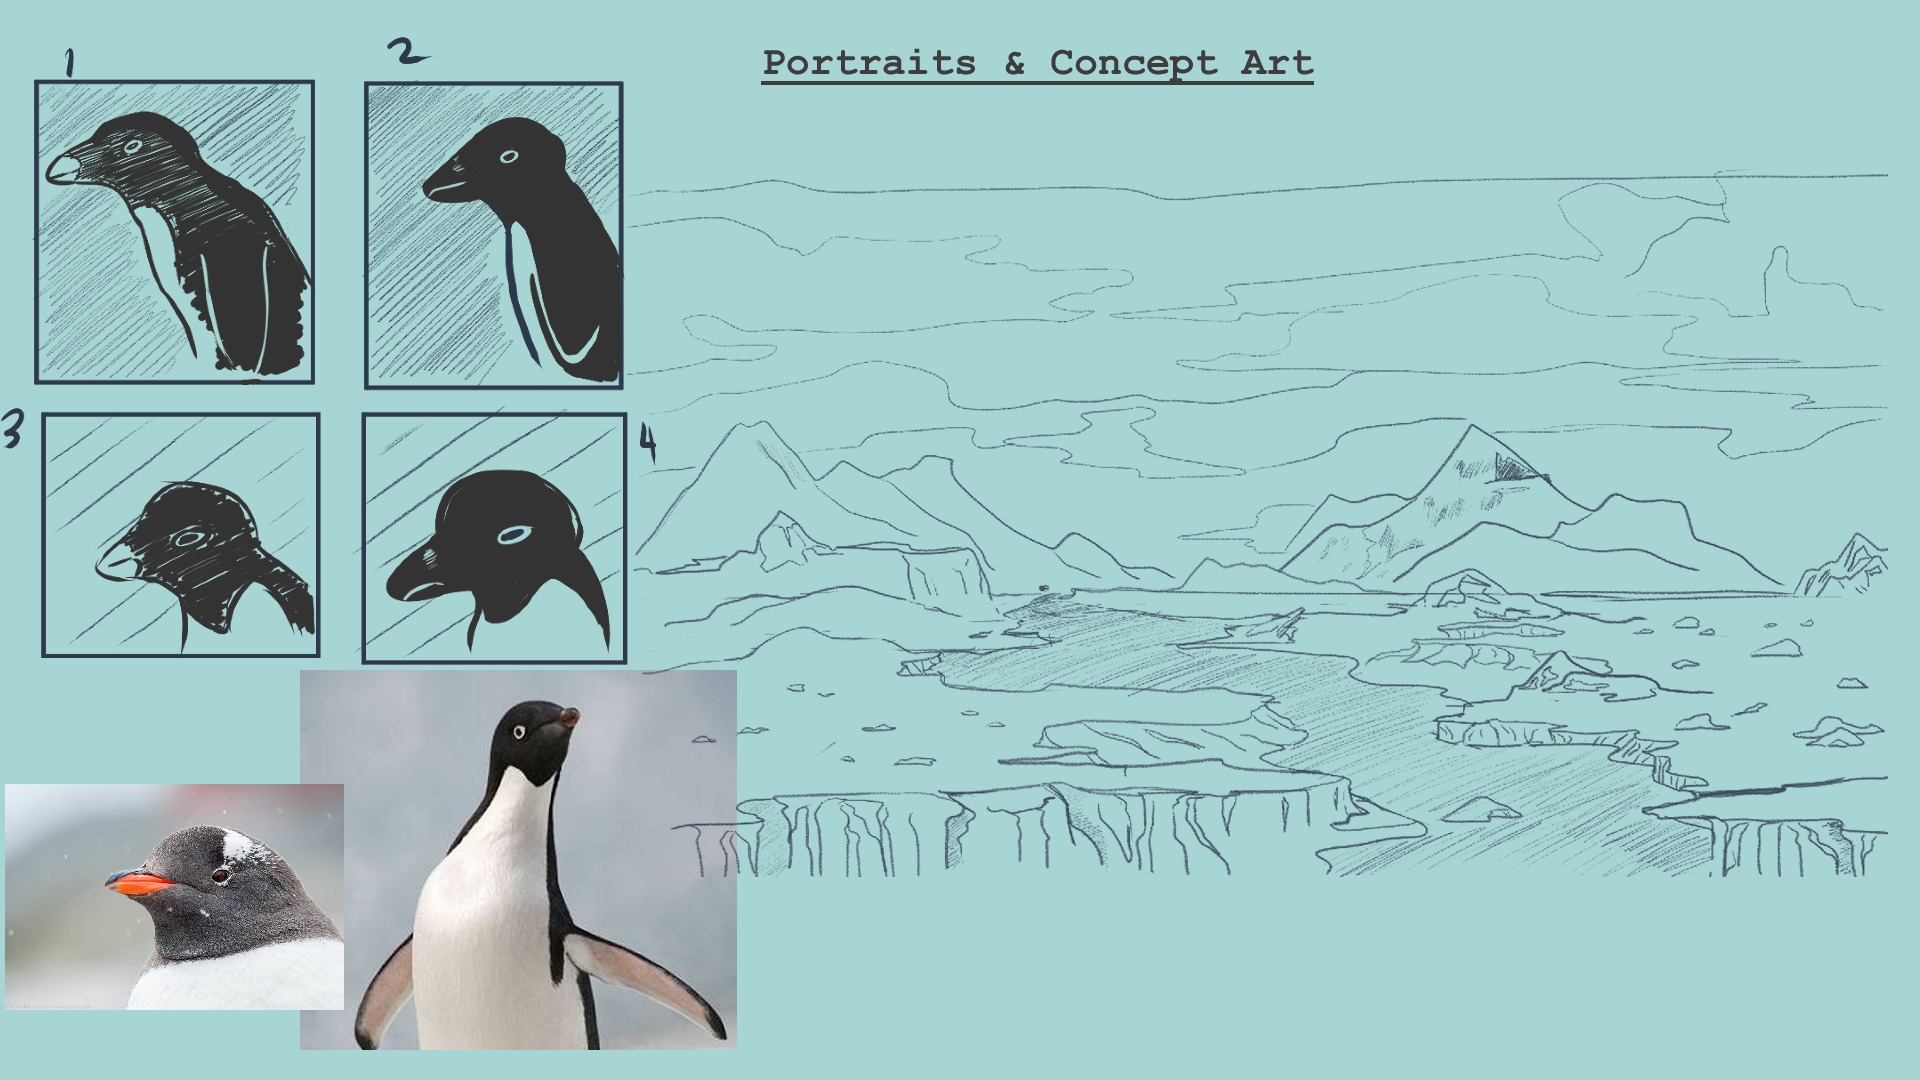
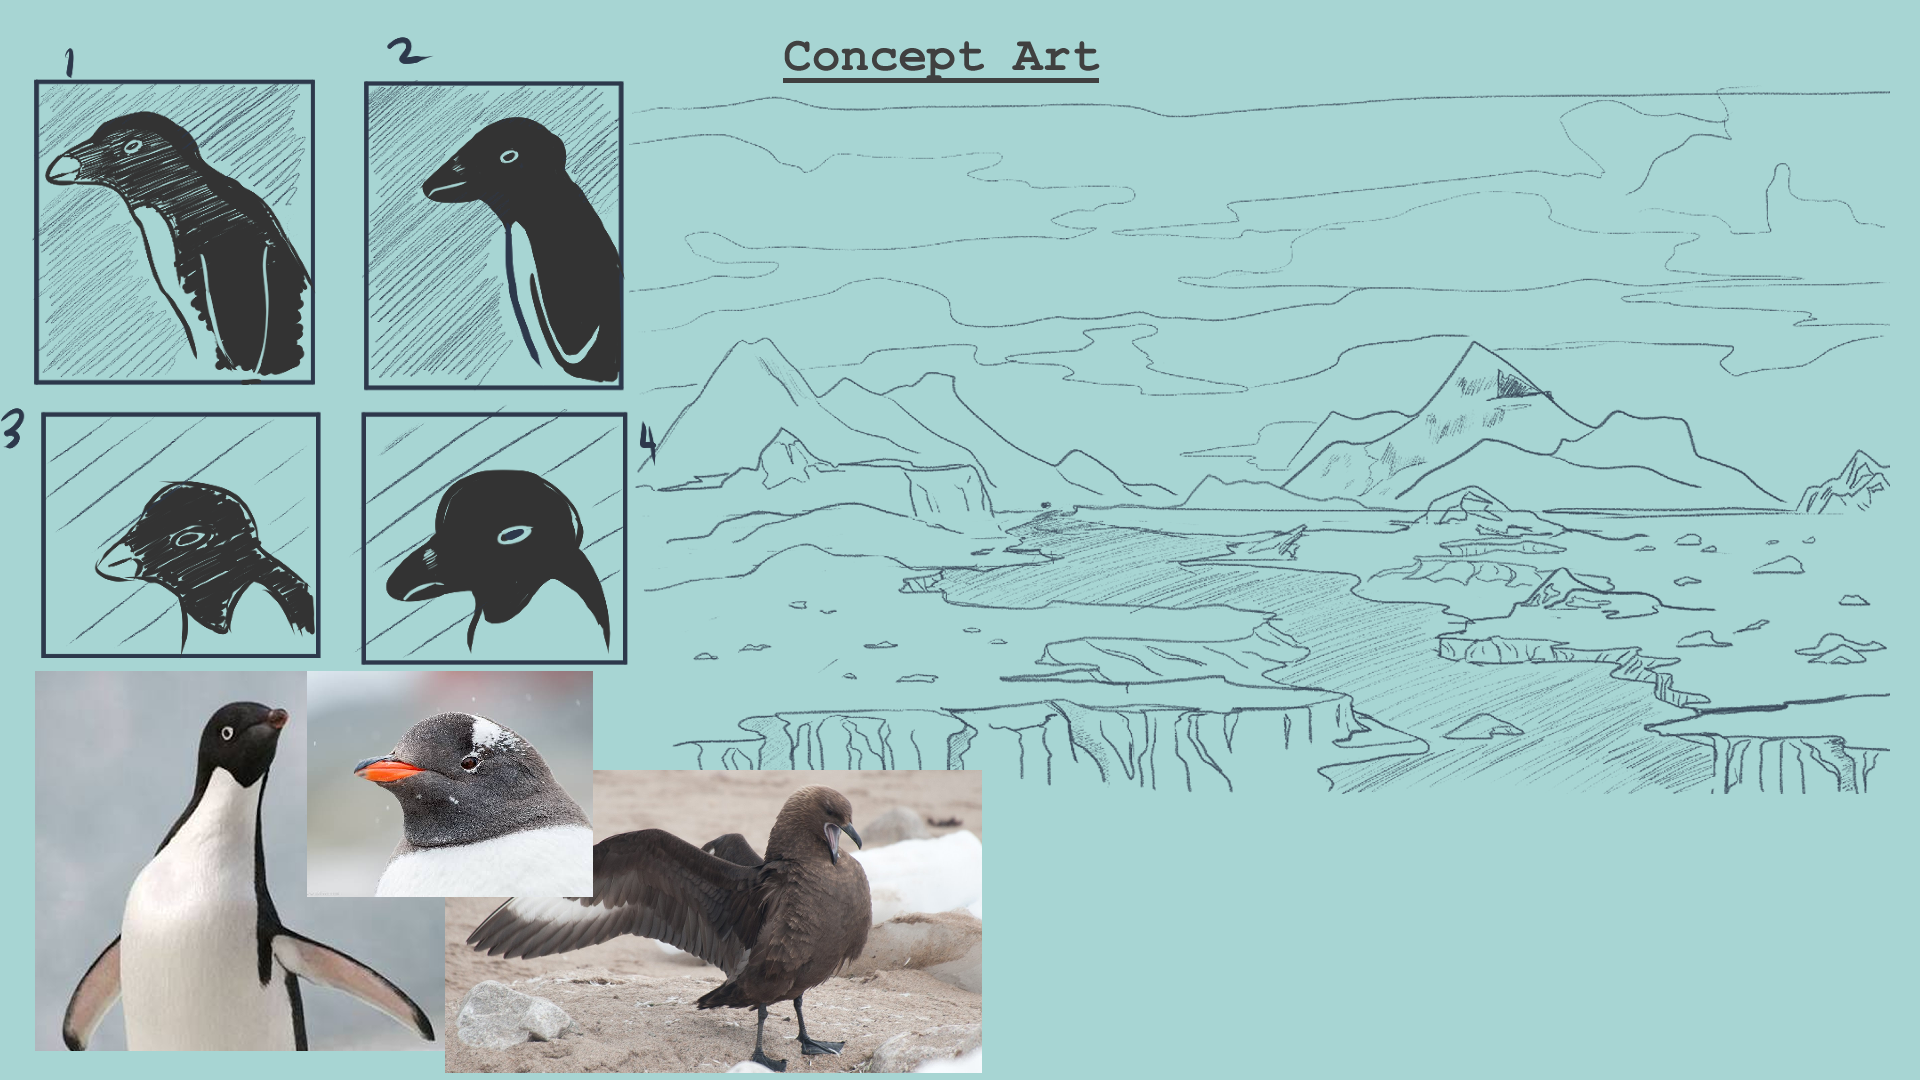
Updated fight or flight slides

diff --git a/games.html b/games.html
@@ -102,10 +102,16 @@
                         <img src="/images/FightorFlight_2nd_15s.gif" alt="early examples of assets">
                     </div>
                     <div class="carousel-slide">
-                        <img src="/images/BEM_concepts2.png" alt="some rough sketches and ideas">
+                        <img src="/images/fightOrFlight_Portraits.png" alt="some rough sketches and ideas">
                     </div>
                     <div class="carousel-slide">
-                        <img src="/images/FightorFlight_conceptArt.png" alt=" sketches of character portraits, references, & background art">
+                        <img src="/images/FightorFlight_Background.png" alt="Image of the games background; icebergs and mountains">
+                    </div>
+                    <div class="carousel-slide">
+                        <img src="/images/FightorFlight_lineart.png" alt=" sketches of character portraits, references, & background art">
+                    </div>
+                    <div class="carousel-slide">
+                        <img src="/images/FightorFlight_conceptArt.png" alt="first 30 secs of the game and intro dialogue">
                     </div>
                 </div>
             </div>
